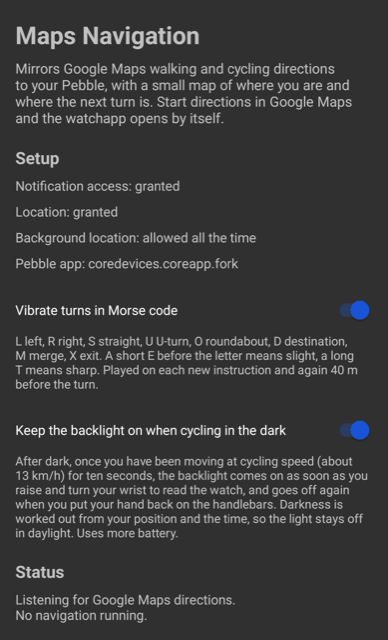
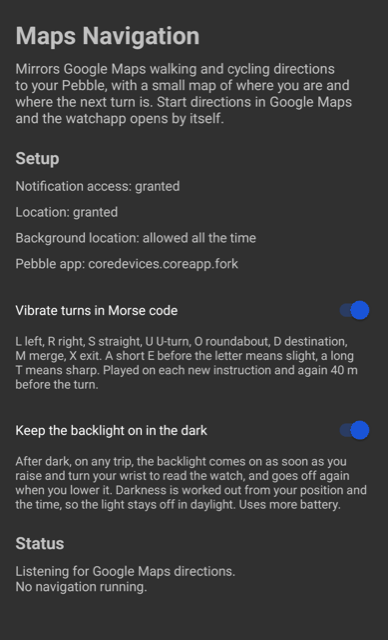
Add a landing page published to GitHub Pages

Changed region(s): [[0.0309, 0.6875, 0.9588, 0.9688], [0.3711, 0.6562, 0.7423, 0.6875]]

diff --git a/site/index.html b/site/index.html
@@ -1,0 +1,218 @@
+<!doctype html>
+<html lang="en">
+<head>
+<meta charset="utf-8">
+<meta name="viewport" content="width=device-width, initial-scale=1">
+<title>Maps Navigation for Pebble</title>
+<meta name="description" content="Google Maps walking and cycling directions on a Pebble Time 2, with a map of where you are and where the next turn is.">
+<meta property="og:title" content="Maps Navigation for Pebble">
+<meta property="og:description" content="Google Maps walking and cycling directions on a Pebble Time 2, with a map of where you are and where the next turn is.">
+<meta property="og:type" content="website">
+<meta property="og:url" content="https://maps.pascu.be/">
+<meta property="og:image" content="https://maps.pascu.be/social-preview.png">
+<meta name="twitter:card" content="summary_large_image">
+<link rel="icon" href="icon.svg" type="image/svg+xml">
+<link rel="preconnect" href="https://fonts.googleapis.com">
+<link rel="preconnect" href="https://fonts.gstatic.com" crossorigin>
+<link rel="stylesheet" href="https://fonts.googleapis.com/css2?family=Space+Grotesk:wght@500;700&family=Inter:wght@400;500;600&display=swap">
+<style>
+  :root {
+    --ink: #17191F;
+    --ink-soft: #4C515E;
+    --ground: #F4F5F7;
+    --card: #FFFFFF;
+    --line: #DFE2E8;
+    --accent: #2743E8;
+    --accent-soft: #E8EBFD;
+    --on-accent: #FFFFFF;
+    --display: "Space Grotesk", "Helvetica Neue", Arial, sans-serif;
+    --body: Inter, -apple-system, BlinkMacSystemFont, "Segoe UI", Roboto, sans-serif;
+  }
+  @media (prefers-color-scheme: dark) {
+    :root:not([data-theme="light"]) {
+      --ink: #EEF0F4;
+      --ink-soft: #A0A7B8;
+      --ground: #0E0F13;
+      --card: #191B22;
+      --line: #2C303B;
+      --accent: #7488FF;
+      --accent-soft: #1C2140;
+      --on-accent: #0B0D14;
+    }
+  }
+  :root[data-theme="dark"] {
+    --ink: #EEF0F4;
+    --ink-soft: #A0A7B8;
+    --ground: #0E0F13;
+    --card: #191B22;
+    --line: #2C303B;
+    --accent: #7488FF;
+    --accent-soft: #1C2140;
+    --on-accent: #0B0D14;
+  }
+  * { box-sizing: border-box; }
+  body {
+    margin: 0;
+    background: var(--ground);
+    color: var(--ink);
+    font-family: var(--body);
+    font-size: 17px;
+    line-height: 1.6;
+    -webkit-font-smoothing: antialiased;
+  }
+  .wrap { max-width: 980px; margin: 0 auto; padding: 0 24px; }
+  a { color: var(--accent); }
+  h1, h2, h3 { font-family: var(--display); text-wrap: balance; letter-spacing: -0.02em; }
+
+  header { padding: 72px 0 8px; }
+  .lockup { display: flex; gap: 22px; align-items: center; }
+  .lockup img { width: 84px; height: 84px; border-radius: 18px; display: block; }
+  h1 { font-size: clamp(34px, 6vw, 52px); line-height: 1.05; margin: 0; font-weight: 700; }
+  .tagline { font-size: clamp(18px, 2.4vw, 22px); color: var(--ink-soft); margin: 20px 0 0; max-width: 34em; }
+
+  .actions { display: flex; flex-wrap: wrap; gap: 12px; margin: 32px 0 0; }
+  .btn {
+    font-family: var(--body); font-size: 16px; font-weight: 600; text-decoration: none;
+    padding: 12px 20px; border-radius: 10px; border: 1px solid var(--line);
+    background: var(--card); color: var(--ink); display: inline-block;
+  }
+  .btn.primary { background: var(--accent); border-color: var(--accent); color: var(--on-accent); }
+  .note { font-size: 15px; color: var(--ink-soft); margin: 14px 0 0; }
+
+  section { padding: 64px 0 0; }
+  h2 { font-size: clamp(24px, 3.4vw, 30px); margin: 0 0 8px; font-weight: 700; }
+  .lede { color: var(--ink-soft); margin: 0 0 28px; max-width: 42em; }
+
+  .shots { display: grid; grid-template-columns: repeat(auto-fit, minmax(min(190px, 100%), 1fr)); gap: 20px; align-items: start; }
+  figure { margin: 0; background: var(--card); border: 1px solid var(--line); border-radius: 14px; padding: 18px; }
+  figure img { display: block; width: 100%; height: auto; border-radius: 4px; }
+  figure.watch img { image-rendering: pixelated; width: 200px; max-width: 100%; margin: 0 auto; }
+  figcaption { font-size: 14px; color: var(--ink-soft); margin-top: 14px; }
+
+  .grid { display: grid; grid-template-columns: repeat(auto-fit, minmax(min(330px, 100%), 1fr)); gap: 20px; }
+  .card { background: var(--card); border: 1px solid var(--line); border-radius: 14px; padding: 22px; }
+  .card h3 { font-size: 18px; margin: 0 0 6px; font-weight: 700; }
+  .card p { margin: 0; color: var(--ink-soft); font-size: 15.5px; }
+
+  ol.steps { counter-reset: step; list-style: none; padding: 0; margin: 0; display: grid; gap: 16px; }
+  ol.steps li {
+    counter-increment: step; position: relative; padding-left: 46px;
+    color: var(--ink-soft); font-size: 16px;
+  }
+  ol.steps li::before {
+    content: counter(step); position: absolute; left: 0; top: -1px;
+    width: 30px; height: 30px; border-radius: 8px;
+    background: var(--accent-soft); color: var(--accent);
+    font-family: var(--display); font-weight: 700; font-size: 15px;
+    display: grid; place-items: center;
+  }
+  ol.steps strong { color: var(--ink); font-weight: 600; }
+
+  table { border-collapse: collapse; width: 100%; font-size: 15.5px; }
+  th, td { text-align: left; padding: 10px 14px 10px 0; border-bottom: 1px solid var(--line); vertical-align: top; }
+  th { font-weight: 600; white-space: nowrap; }
+  td { color: var(--ink-soft); }
+  .scroller { overflow-x: auto; }
+
+  footer { margin-top: 72px; padding: 28px 0 56px; border-top: 1px solid var(--line); color: var(--ink-soft); font-size: 15px; }
+  footer a { text-decoration: none; }
+</style>
+</head>
+<body>
+<div class="wrap">
+
+<header>
+  <div class="lockup">
+    <img src="icon.svg" alt="">
+    <div>
+      <h1>Maps Navigation<br>for Pebble</h1>
+    </div>
+  </div>
+  <p class="tagline">Google Maps walking and cycling directions on a Pebble Time 2, with a map of where you are and where the next turn is.</p>
+  <div class="actions">
+    <a class="btn primary" href="https://apps.rebble.io/en_US/application/6a9eaa93c73fab000922277c">Get it on the Rebble store</a>
+    <a class="btn" href="https://github.com/peblum/maps-for-pebble/releases/latest">Download the companion</a>
+    <a class="btn" href="https://github.com/peblum/maps-for-pebble">Source on GitHub</a>
+  </div>
+  <p class="note">Android only, and it needs the Pebble app. Free and open source under the MIT licence.</p>
+</header>
+
+<section>
+  <h2>What it looks like</h2>
+  <p class="lede">The watch screens are the real thing at 200 by 228, the size of a Pebble Time 2.</p>
+  <div class="shots">
+    <figure class="watch">
+      <img src="watch-navigating.png" alt="Watch during a trip: a left turn arrow, 40 m and Rue des Bouchers across the top next to the clock, a heading-up map with the route to the turn, and 14 min, 2.1 km and an arrival time of 2:47 along the bottom" width="200" height="228">
+      <figcaption>A trip in progress. Google's own turn arrow, the distance and the street, a map of the streets around you, and the time, distance and arrival time left.</figcaption>
+    </figure>
+    <figure class="watch">
+      <img src="watch-idle.png" alt="Watch waiting for a trip: the clock, the name Maps Navigation and a line asking you to start walking or cycling directions in Google Maps" width="200" height="228">
+      <figcaption>Waiting. The watchapp opens by itself when you start directions.</figcaption>
+    </figure>
+    <figure>
+      <img src="companion.png" alt="Companion app on Android showing the setup checklist, the Morse code and backlight settings, and the status section" width="388" height="640">
+      <figcaption>The companion on the phone. Setup, two settings and what it is doing.</figcaption>
+    </figure>
+  </div>
+</section>
+
+<section>
+  <h2>How it works</h2>
+  <p class="lede">Google Maps has no API for the route it is giving you, so the companion reads the navigation notification and rebuilds the picture itself.</p>
+  <div class="grid">
+    <div class="card">
+      <h3>The turn comes from Google</h3>
+      <p>The manoeuvre icon, the distance and the street name are lifted straight from the navigation notification, so they are always what Google is telling you.</p>
+    </div>
+    <div class="card">
+      <h3>The map is drawn on the phone</h3>
+      <p>OpenStreetMap vector tiles are decoded and drawn heading-up in four colours, then streamed to the watch in chunks as large as it will take, up to 8 KB.</p>
+    </div>
+    <div class="card">
+      <h3>The route is reconstructed</h3>
+      <p>From "in 200 m, turn left onto Rue X" it searches the road network ahead of you for a way of about that length ending on that street, and draws it.</p>
+    </div>
+    <div class="card">
+      <h3>Made for a handlebar</h3>
+      <p>Swipe to zoom, each manoeuvre tapped out in Morse code, and after dark the backlight follows your wrist so a glance lights the screen.</p>
+    </div>
+  </div>
+</section>
+
+<section>
+  <h2>Getting started</h2>
+  <ol class="steps">
+    <li>Install the watchapp from the <strong>Rebble store</strong>, or sideload the pbw from a release.</li>
+    <li>Install the <strong>companion APK</strong> from the latest GitHub release on the phone paired with your watch.</li>
+    <li>Give it <strong>notification access</strong>, so it can read the Google Maps notification, and <strong>location</strong>, set to allow all the time so it keeps working with Maps in front.</li>
+    <li>Start walking or cycling directions in <strong>Google Maps</strong>. The watchapp opens by itself.</li>
+  </ol>
+  <p class="note">Full setup notes, the protocol and the design are in the <a href="https://github.com/peblum/maps-for-pebble/tree/main/docs">documentation</a>.</p>
+</section>
+
+<section>
+  <h2>Good to know</h2>
+  <div class="scroller">
+    <table>
+      <tr><th>Watch</th><td>Built for the Pebble Time 2 and its touchscreen. Other Pebbles are not supported.</td></tr>
+      <tr><th>Phone</th><td>Android 8 and later. iOS sandboxes notifications, so it cannot work there.</td></tr>
+      <tr><th>The line</th><td>An estimate. The turn arrow and the distance are Google's and always right, the drawn route is reconstructed from the road network.</td></tr>
+      <tr><th>Data</th><td>Map tiles come from OpenFreeMap. Nothing about your position leaves the phone except the tile requests.</td></tr>
+      <tr><th>Battery</th><td>Rendering and GPS run on the phone. The watch spends power of its own only while you are zooming or while it is watching for your wrist after dark.</td></tr>
+    </table>
+  </div>
+</section>
+
+<footer>
+  <div class="wrap" style="padding: 0;">
+    Built by <a href="https://pascu.be">Adrian Pascu</a>.
+    <a href="https://github.com/peblum/maps-for-pebble">Source</a>,
+    <a href="https://github.com/peblum/maps-for-pebble/issues">issues</a>,
+    MIT licence.
+    Map data © OpenStreetMap contributors, tiles by OpenFreeMap © OpenMapTiles.
+  </div>
+</footer>
+
+</div>
+</body>
+</html>

diff --git a/README.md b/README.md
@@ -52,10 +52,10 @@ Maps Navigation companion (Android, this repo)
   NotificationListenerService reads the text and the icon
   LocationManager gives position, speed and bearing
   OpenFreeMap vector tiles (OpenStreetMap data, zoom 14) are decoded on the phone
-  RoutePreview walks the announced distance along the current road on the OSM graph
-    and snaps the end point to the street named in the instruction
+  RoutePreview searches the OSM graph ahead for a way of about the announced length
+    that ends on the street named in the instruction
   MapRenderer draws a 4 colour, heading-up map on a Canvas and packs it as 2 bits per pixel
-        │  PebbleKit Android 2 AppMessages (one 8 KB message per chunk)
+        │  PebbleKit Android 2 AppMessages (chunks sized to the watch inbox, up to 8 KB)
         ▼
 Maps Navigation watchapp (C, this repo)
   top bar: arrow, distance, street
